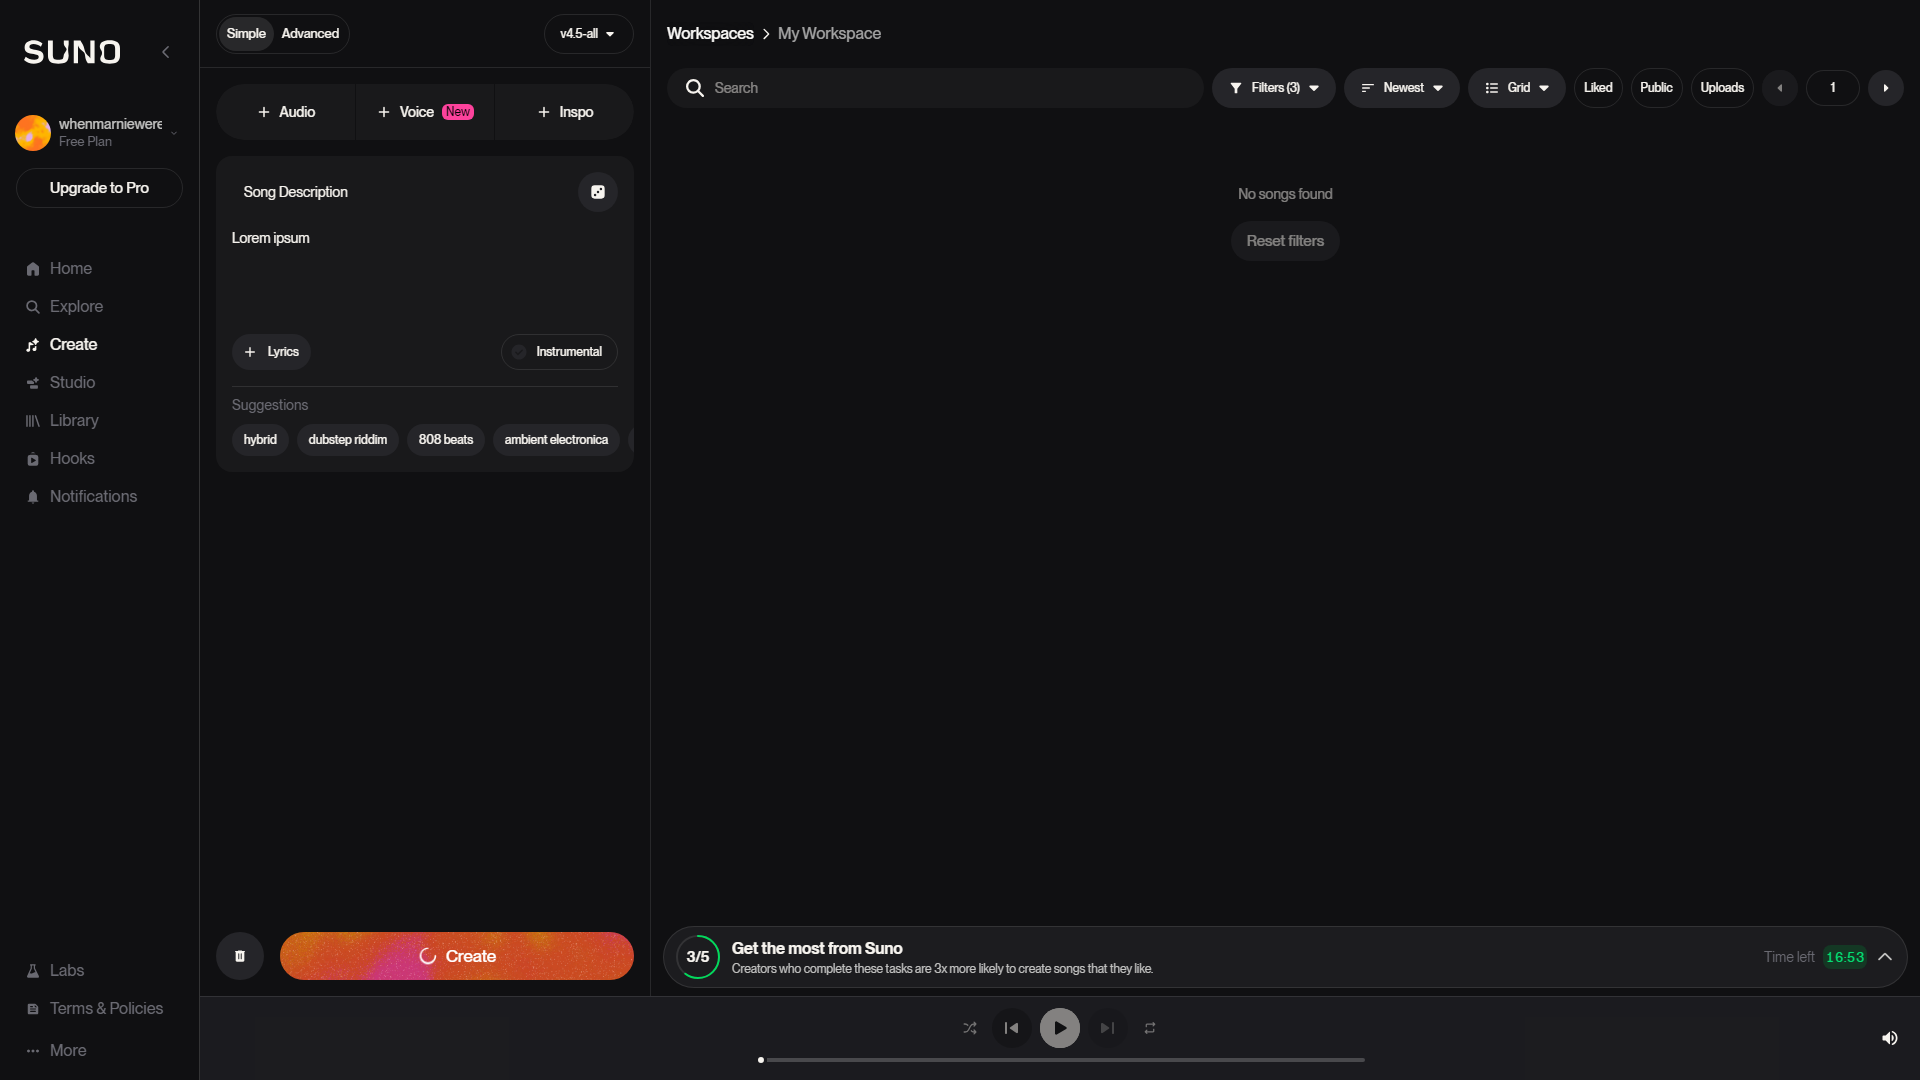
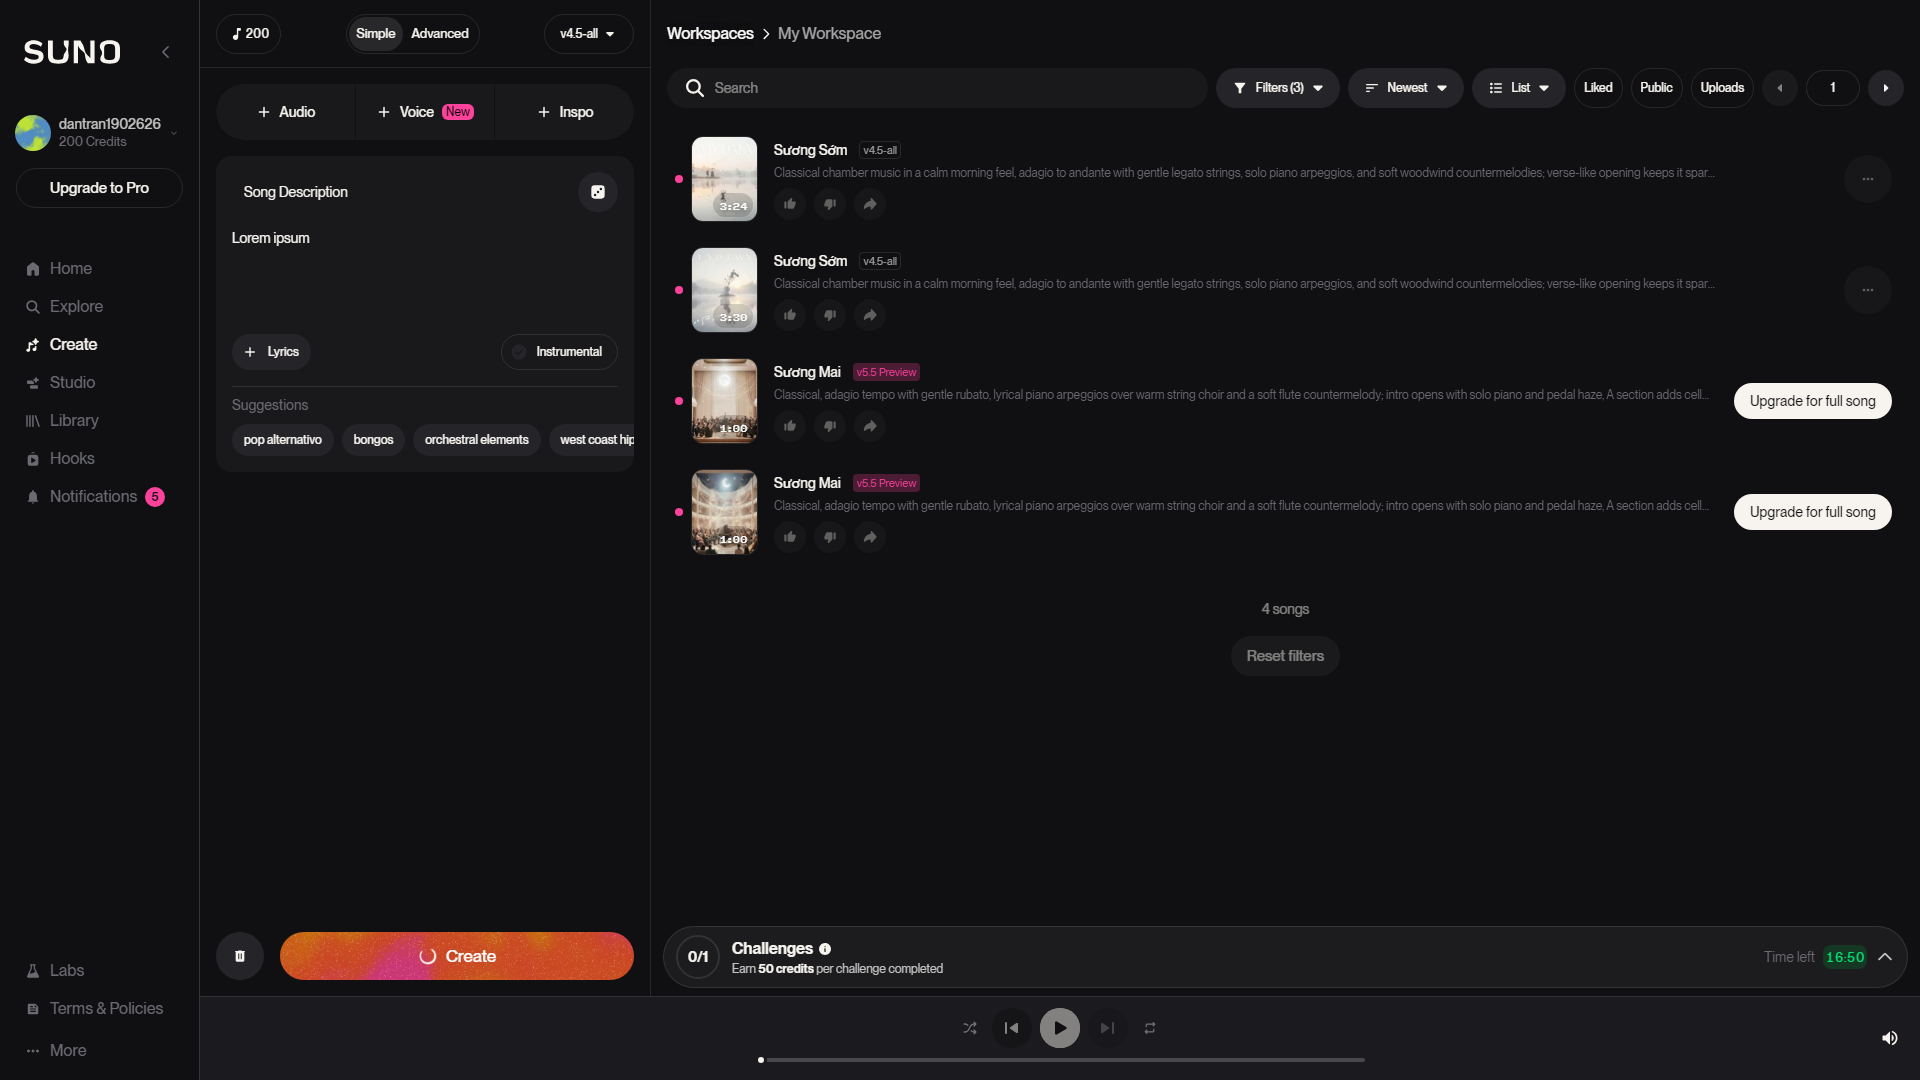
first commit

diff --git a/src/app/api/internal/pre-warm/route.ts b/src/app/api/internal/pre-warm/route.ts
@@ -1,0 +1,91 @@
+import { NextResponse, NextRequest } from "next/server";
+import { sunoApi } from "@/lib/SunoApi";
+import { corsHeaders } from "@/lib/utils";
+
+export const dynamic = "force-dynamic";
+
+/**
+ * Internal endpoint called by Spring Boot's CaptchaPreWarmService at 07:01 UTC daily.
+ *
+ * Flow:
+ *  1. Check captchaRequired() — nếu không cần → trả về ngay (fast path)
+ *  2. Warm up session bằng get_credits() + delay 2s
+ *     (để React app load xong, Create button enabled trước khi browser mở)
+ *  3. Gọi generate() với prompt rỗng, wait_audio=false
+ *     → generate() tự gọi getCaptcha() bên trong → giải hCaptcha → submit thật đến Suno
+ *     → Suno ghi nhận → captchaRequired = false cả ngày
+ *  Chi phí: 10 credit/account (reset về 50 lúc 7:00 UTC → còn 40 cho user)
+ *
+ * POST /api/internal/pre-warm
+ * Headers: X-Suno-Cookie: <cookie>
+ */
+export async function POST(req: NextRequest) {
+  const customCookie = req.headers.get('x-suno-cookie');
+  if (!customCookie) {
+    return new NextResponse(JSON.stringify({ error: 'X-Suno-Cookie header required' }), {
+      status: 400,
+      headers: { 'Content-Type': 'application/json', ...corsHeaders }
+    });
+  }
+
+  try {
+    const api = await sunoApi(customCookie);
+
+    // Fast path: không cần CAPTCHA → không cần generate dummy
+    const captchaNeeded = await api.captchaRequired();
+    if (!captchaNeeded) {
+      console.log('[PreWarm] ✅ Không cần CAPTCHA — account đã sạch, bỏ qua.');
+      return new NextResponse(JSON.stringify({
+        success: true,
+        captchaRequired: false,
+        message: 'Không cần CAPTCHA — account đã sạch!'
+      }), {
+        status: 200,
+        headers: { 'Content-Type': 'application/json', ...corsHeaders }
+      });
+    }
+
+    // Warm up session: gọi get_credits() để đảm bảo cookie hoạt động
+    // và React app sẽ load xong trước khi browser mở → Create button enabled
+    console.log('[PreWarm] CAPTCHA bắt buộc, warm up session...');
+    try {
+      await api.get_credits();
+      console.log('[PreWarm] ✅ Warm-up xong.');
+    } catch (e) {
+      console.warn('[PreWarm] ⚠️ get_credits() failed, tiếp tục...', e);
+    }
+
+    // Delay 2s để session ổn định
+    await new Promise(resolve => setTimeout(resolve, 2000));
+
+    // Generate dummy — generate() tự gọi getCaptcha() bên trong
+    // → giải hCaptcha → submit thật → Suno xóa captchaRequired cả ngày
+    // wait_audio=false: không chờ bài hát xong
+    console.log('[PreWarm] Đang generate dummy để Suno xác nhận CAPTCHA...');
+    await api.generate('', false, undefined, false);
+
+    console.log('[PreWarm] ✅ Xong! Suno đã xóa CAPTCHA cả ngày cho account này.');
+    return new NextResponse(JSON.stringify({
+      success: true,
+      captchaRequired: true,
+      message: 'CAPTCHA đã giải + generate dummy thành công! Cả ngày không cần CAPTCHA nữa.'
+    }), {
+      status: 200,
+      headers: { 'Content-Type': 'application/json', ...corsHeaders }
+    });
+
+  } catch (error: any) {
+    console.error('[PreWarm] ❌ Thất bại:', error?.message);
+    return new NextResponse(JSON.stringify({
+      success: false,
+      error: error?.message || 'Unknown error'
+    }), {
+      status: 500,
+      headers: { 'Content-Type': 'application/json', ...corsHeaders }
+    });
+  }
+}
+
+export async function OPTIONS() {
+  return new Response(null, { status: 200, headers: corsHeaders });
+}

diff --git a/src/lib/SunoApi.ts b/src/lib/SunoApi.ts
@@ -81,6 +81,10 @@ class SunoApi {
   private solver = new Solver(process.env.TWOCAPTCHA_KEY + '');
   private ghostCursorEnabled = yn(process.env.BROWSER_GHOST_CURSOR, { default: false });
   private cursor?: Cursor;
+  // Token được lưu sau pre-warm để generate() dùng lại mà không cở browser
+  private cachedCaptchaToken?: string;
+  private cachedCaptchaTokenAt?: number; // timestamp ms
+  private static TOKEN_TTL_MS = 4 * 60 * 1000; // hCaptcha token hết hạn sau ~5 phút, dùng 4 phút cho an toàn
 
   constructor(cookies: string) {
     this.userAgent = new UserAgent(/Macintosh/).random().toString(); // Usually Mac systems get less amount of CAPTCHAs
@@ -200,7 +204,7 @@ class SunoApi {
     return tokenResponse.data.session_id;
   }
 
-  private async captchaRequired(): Promise<boolean> {
+  public async captchaRequired(): Promise<boolean> {
     const resp = await this.client.post(`${SunoApi.BASE_URL}/api/c/check`, {
       ctype: 'generation'
     });
@@ -411,6 +415,22 @@ class SunoApi {
     logger.info('[getCaptcha] 🔐 Bắt đầu quy trình xác minh CAPTCHA');
     logger.info('[getCaptcha] Thời điểm bắt đầu: ' + new Date().toISOString());
     logger.info('━━━━━━━━━━━━━━━━━━━━━━━━━━━━━━━━━━━━━━━━━━━━━━━━━━━');
+
+    // ✔ Kiểm tra token đã pre-warm trước đó còn hiệu lực không (< 4 phút)
+    if (this.cachedCaptchaToken && this.cachedCaptchaTokenAt) {
+      const age = Date.now() - this.cachedCaptchaTokenAt;
+      if (age < SunoApi.TOKEN_TTL_MS) {
+        logger.info(`[getCaptcha] ⚡ Dùng cached token từ pre-warm (${Math.round(age/1000)}s tuổi, còn hiệu lực ${Math.round((SunoApi.TOKEN_TTL_MS - age)/1000)}s). Bỏ qua browser!`);
+        const token = this.cachedCaptchaToken;
+        this.cachedCaptchaToken = undefined; // dùng 1 lần rồi xóa
+        this.cachedCaptchaTokenAt = undefined;
+        return token;
+      } else {
+        logger.info(`[getCaptcha] ⏰ Cached token đã hết hạn (${Math.round(age/1000)}s tuổi). Tiếp tục giải CAPTCHA mới...`);
+        this.cachedCaptchaToken = undefined;
+        this.cachedCaptchaTokenAt = undefined;
+      }
+    }
 
     logger.info('[getCaptcha] [1/10] Kiểm tra xem có cần CAPTCHA không (/api/c/check)...');
     const checkStart = Date.now();
@@ -946,6 +966,16 @@ class SunoApi {
    * @param wait_audio Indicates if the method should wait for the audio file to be fully generated before returning.
    * @returns
    */
+  /**
+   * Lưu token CAPTCHA đã giải (từ pre-warm) vào instance để generate() dùng lại.
+   * Token chỉ có hiệu lực trong TOKEN_TTL_MS (4 phút).
+   */
+  public setCaptchaToken(token: string): void {
+    this.cachedCaptchaToken = token;
+    this.cachedCaptchaTokenAt = Date.now();
+    logger.info(`[setCaptchaToken] ✅ Token pre-warm đã lưu (hết hạn sau ${SunoApi.TOKEN_TTL_MS / 1000}s)`);
+  }
+
   public async generate(
     prompt: string,
     make_instrumental: boolean = false,